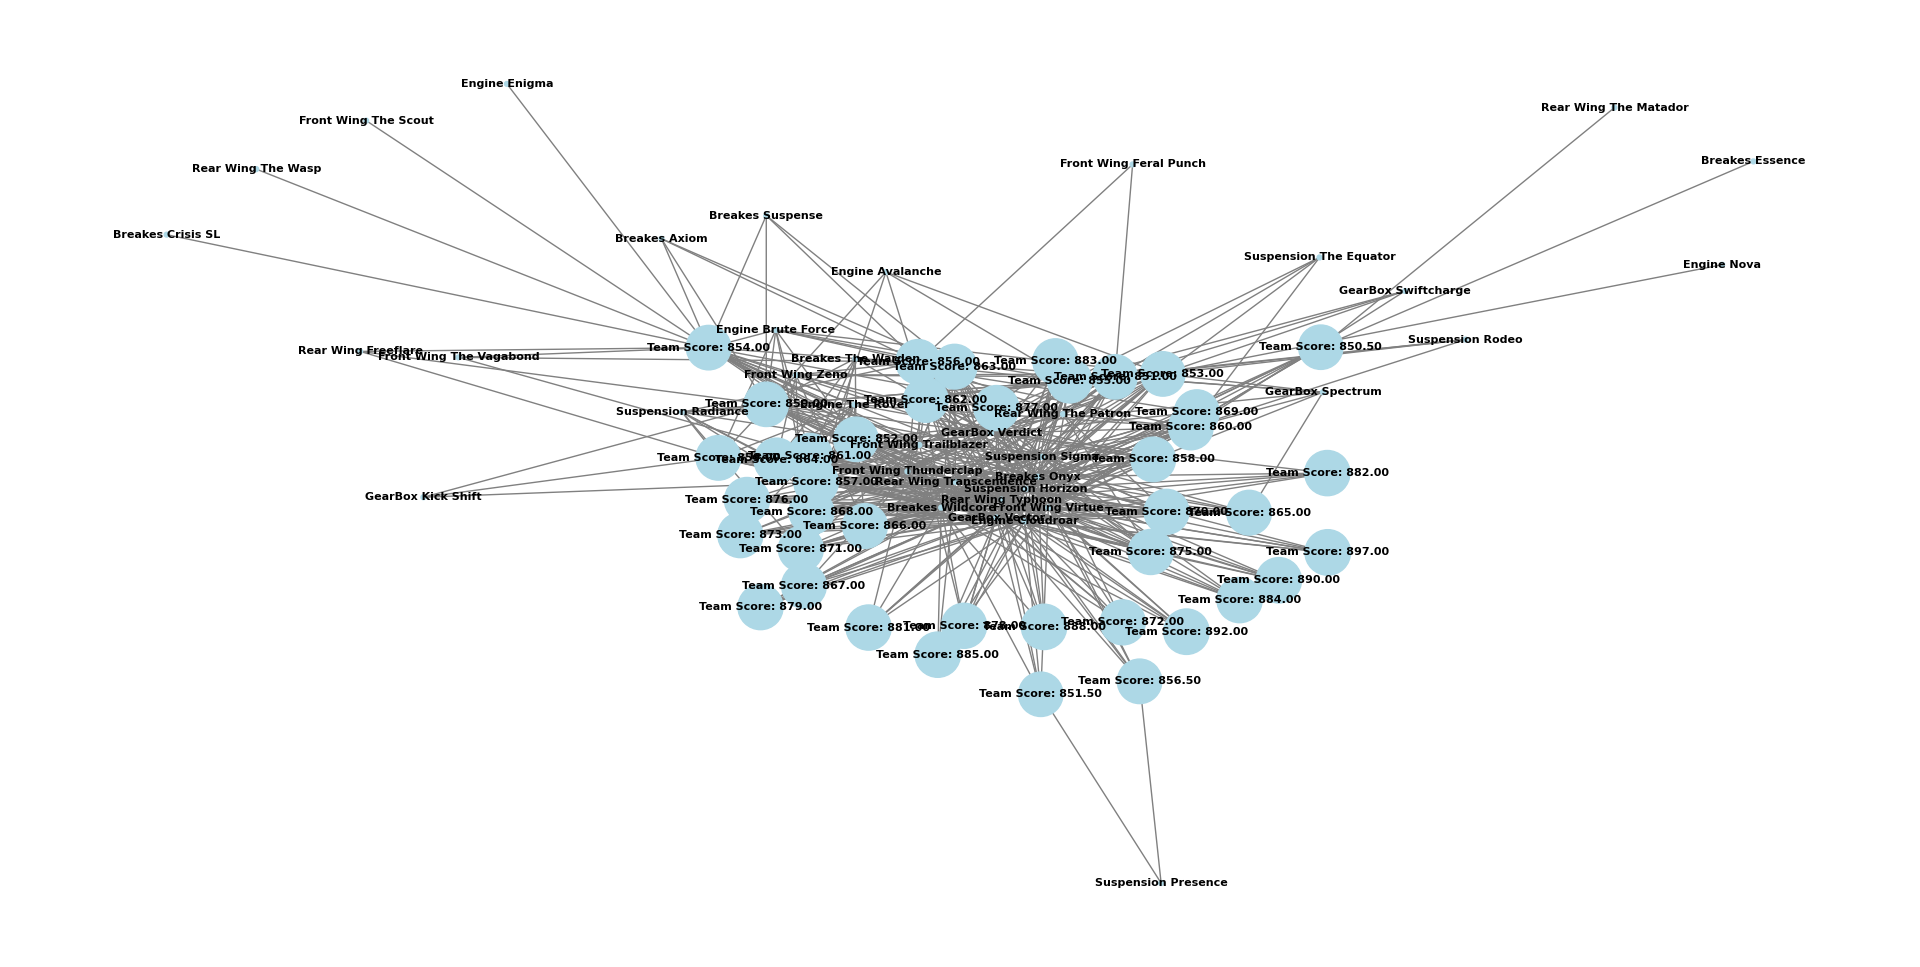
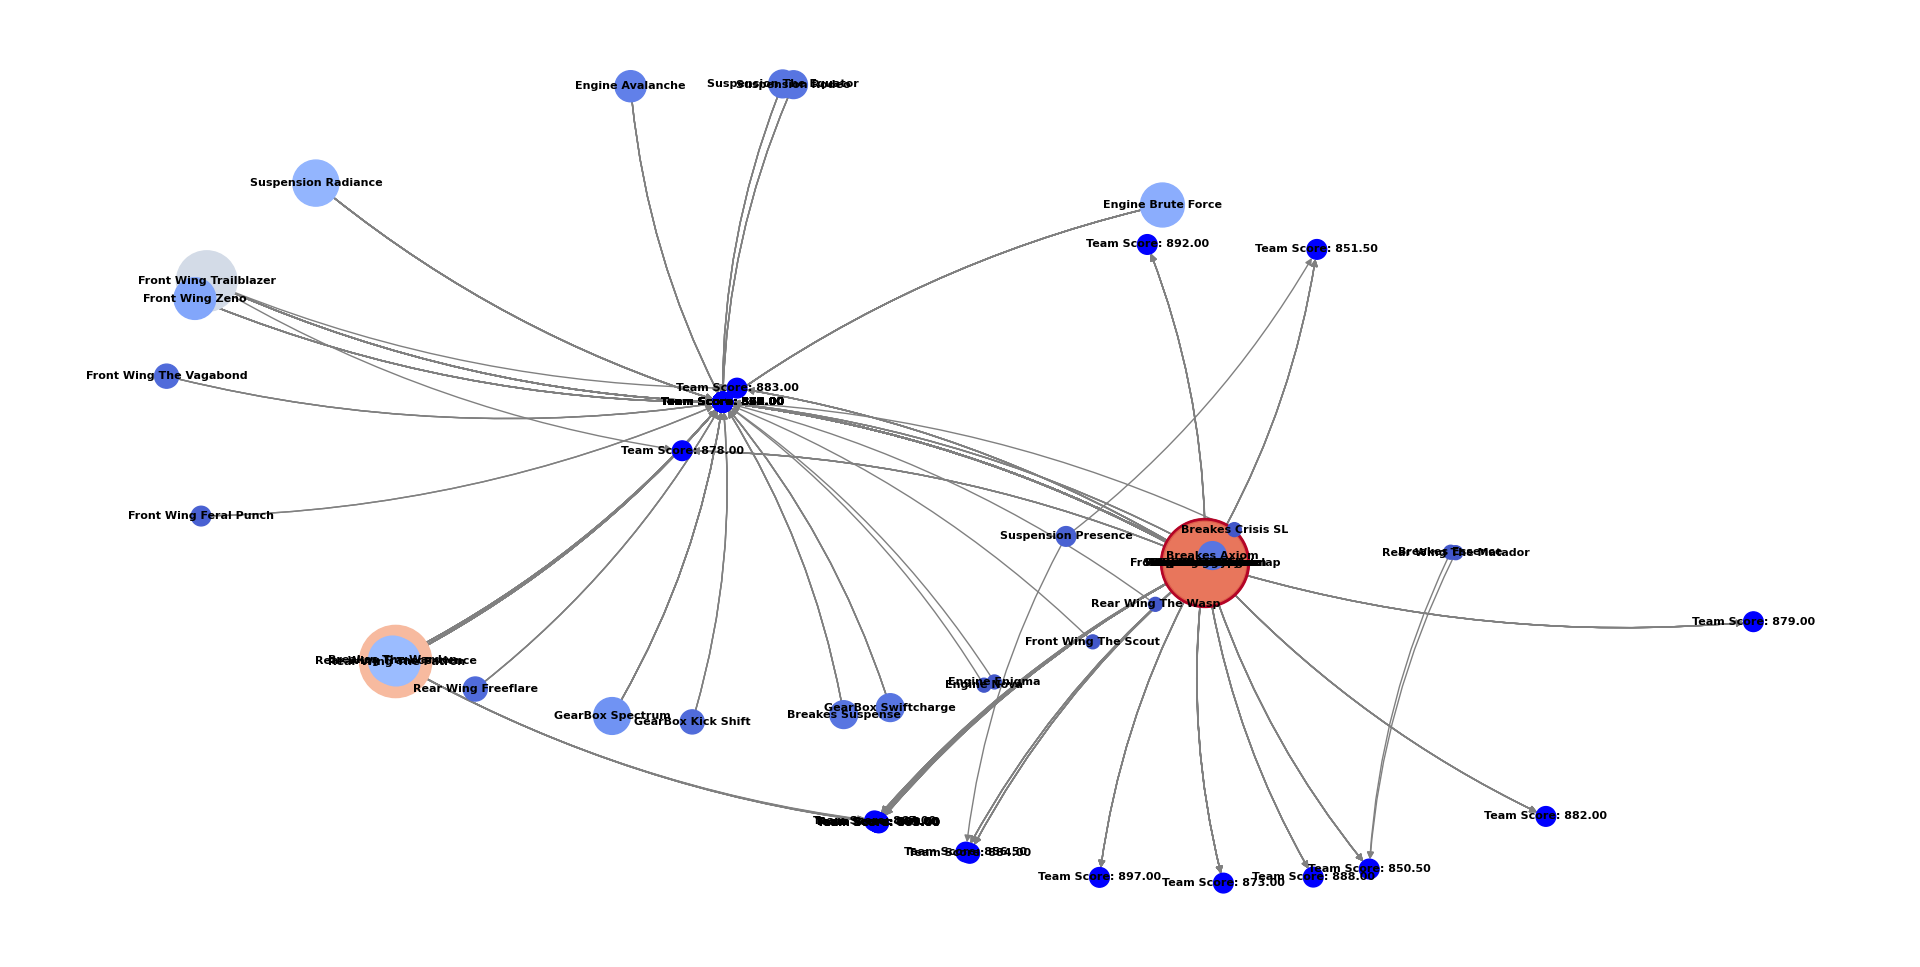
update assets

diff --git a/graphs_with_python/f1clash_graphs.py b/graphs_with_python/f1clash_graphs.py
@@ -148,8 +148,8 @@ for selected_combination in selected_combinations:
     team_score_example = calculate_team_score(selected_combination)
     team_score_str = f'Team Score {team_score_example:.2f}'
     
-    # Adicionando nó do "Team Score"
-    G.add_node(team_score_str, label=f'Team Score: {team_score_example:.2f}', size=team_score_example)
+    # Adicionando nó do "Team Score" com tamanho e cor fixos
+    G.add_node(team_score_str, label=f'Team Score: {team_score_example:.2f}', size=200, color='blue')
 
     # Adicionando arestas direcionadas das peças para o "Team Score"
     for piece in selected_combination:
@@ -157,22 +157,31 @@ for selected_combination in selected_combinations:
 
         # Adicionando nó da peça, se ainda não existir
         if not G.has_node(piece_name):
-            G.add_node(piece_name, label=piece_name, size=10)  # Ajuste conforme necessário
+            G.add_node(piece_name, label=piece_name)
 
         # Adicionando aresta direcionada da peça para o "Team Score"
         G.add_edge(piece_name, team_score_str)
 
-# Obtendo tamanhos dos nós
-node_sizes = [data['size'] for node, data in G.nodes(data=True)]
+# Calculando o tamanho dos nós das peças com base no número de arestas de saída
+node_sizes = [G.out_degree(piece_name) * 100 for piece_name in G.nodes()]
 
-# Desenhando o grafo direcionado
-pos = nx.spring_layout(G)
+# Mapeando os tamanhos dos nós para um mapa de cores (azul a vermelho)
+norm = plt.Normalize(min(node_sizes), max(node_sizes))
+cmap = plt.get_cmap('coolwarm')
+node_colors = [cmap(norm(size)) for size in node_sizes]
+
+# Atribuindo tamanho e cor fixos para os nós "Team Score"
+node_sizes_fixed = [200 if 'Team Score' in node else size for node, size in zip(G.nodes(), node_sizes)]
+node_colors_fixed = ['blue' if 'Team Score' in node else color for node, color in zip(G.nodes(), node_colors)]
+
+# Desenhando o grafo direcionado com o layout kamada_kawai_layout para espaçamento
+pos = nx.kamada_kawai_layout(G)
 labels = nx.get_edge_attributes(G, 'label')
-nx.draw(G, pos, with_labels=True, labels=nx.get_node_attributes(G, 'label'), font_size=8, node_size=node_sizes, font_color='black', font_weight='bold', node_color='lightblue', edge_color='gray', connectionstyle="arc3,rad=0.1", arrowsize=10)
+nx.draw(G, pos, with_labels=True, labels=nx.get_node_attributes(G, 'label'), font_size=8, node_size=node_sizes_fixed, node_color=node_colors_fixed, font_color='black', font_weight='bold', edge_color='gray', connectionstyle="arc3,rad=0.1", arrowsize=10)
 nx.draw_networkx_edge_labels(G, pos, edge_labels=labels)
 
 # Adicionando rótulo de título
-plt.title('Grafo Direcionado de Compatibilidade de Combinações com Tamanhos Proporcionais')
+plt.title('Grafo Direcionado de Compatibilidade de Combinações com Tamanhos Proporcionais e Cores Variadas')
 
 # Exibindo o grafo direcionado
 plt.show()
